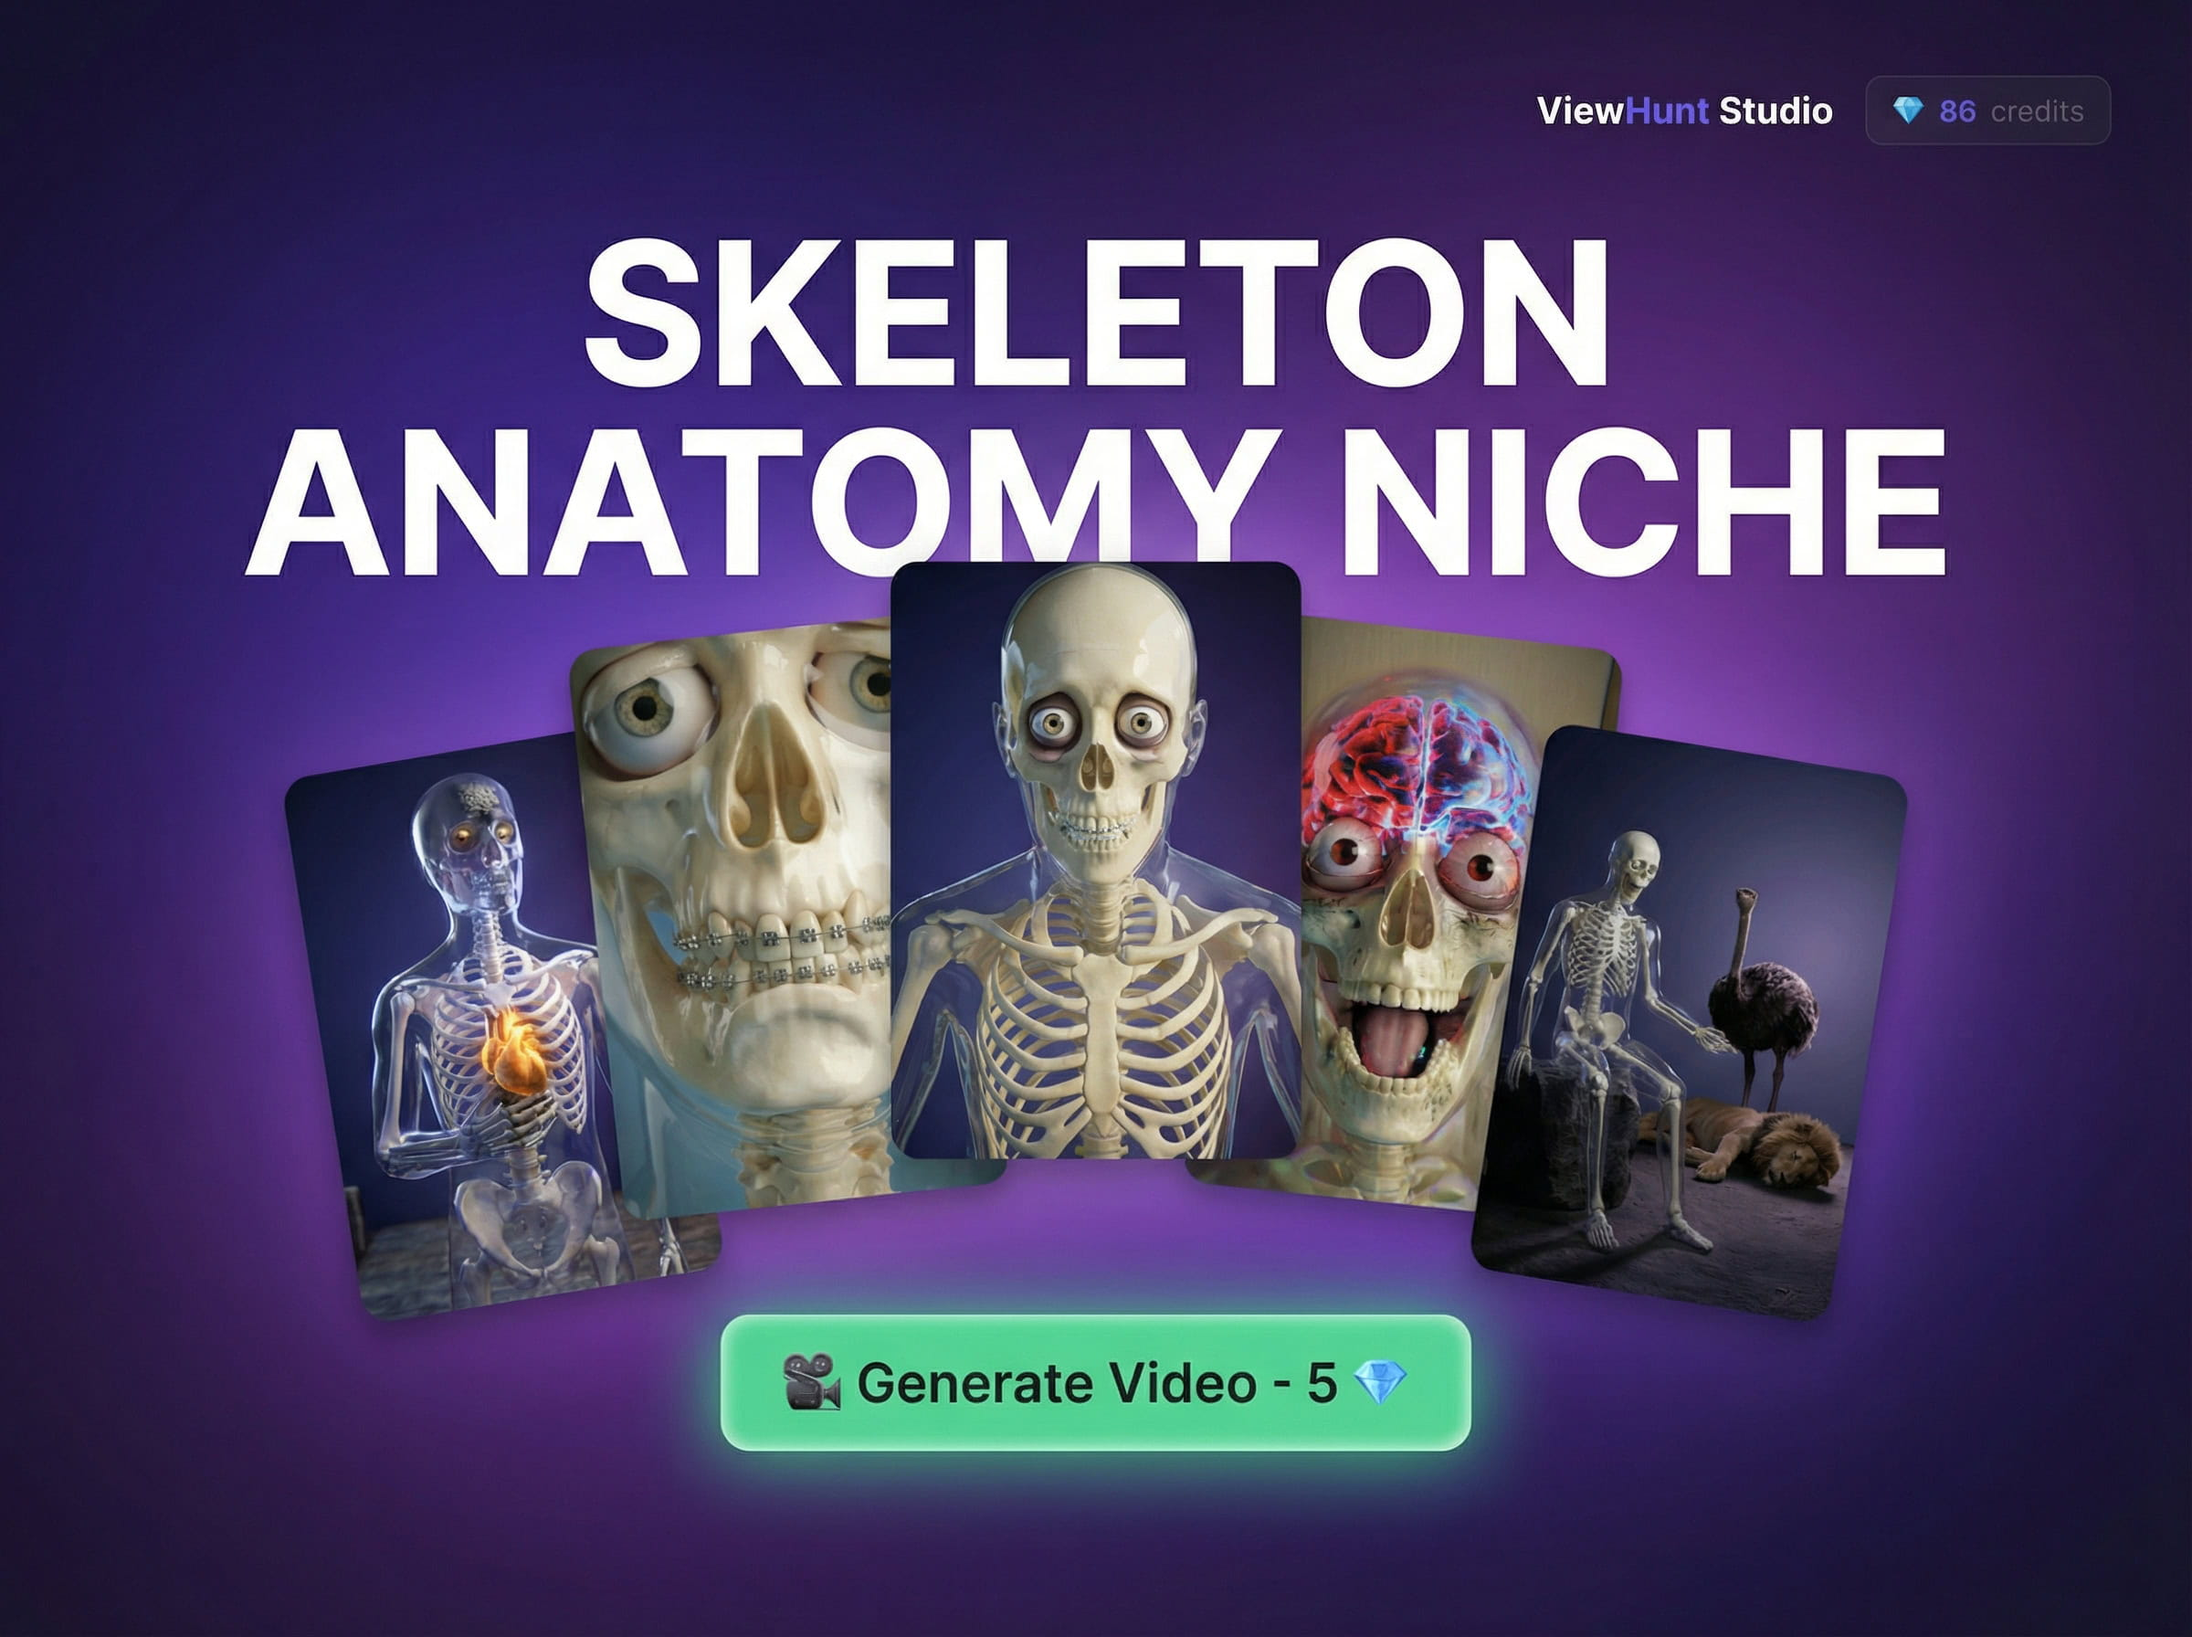
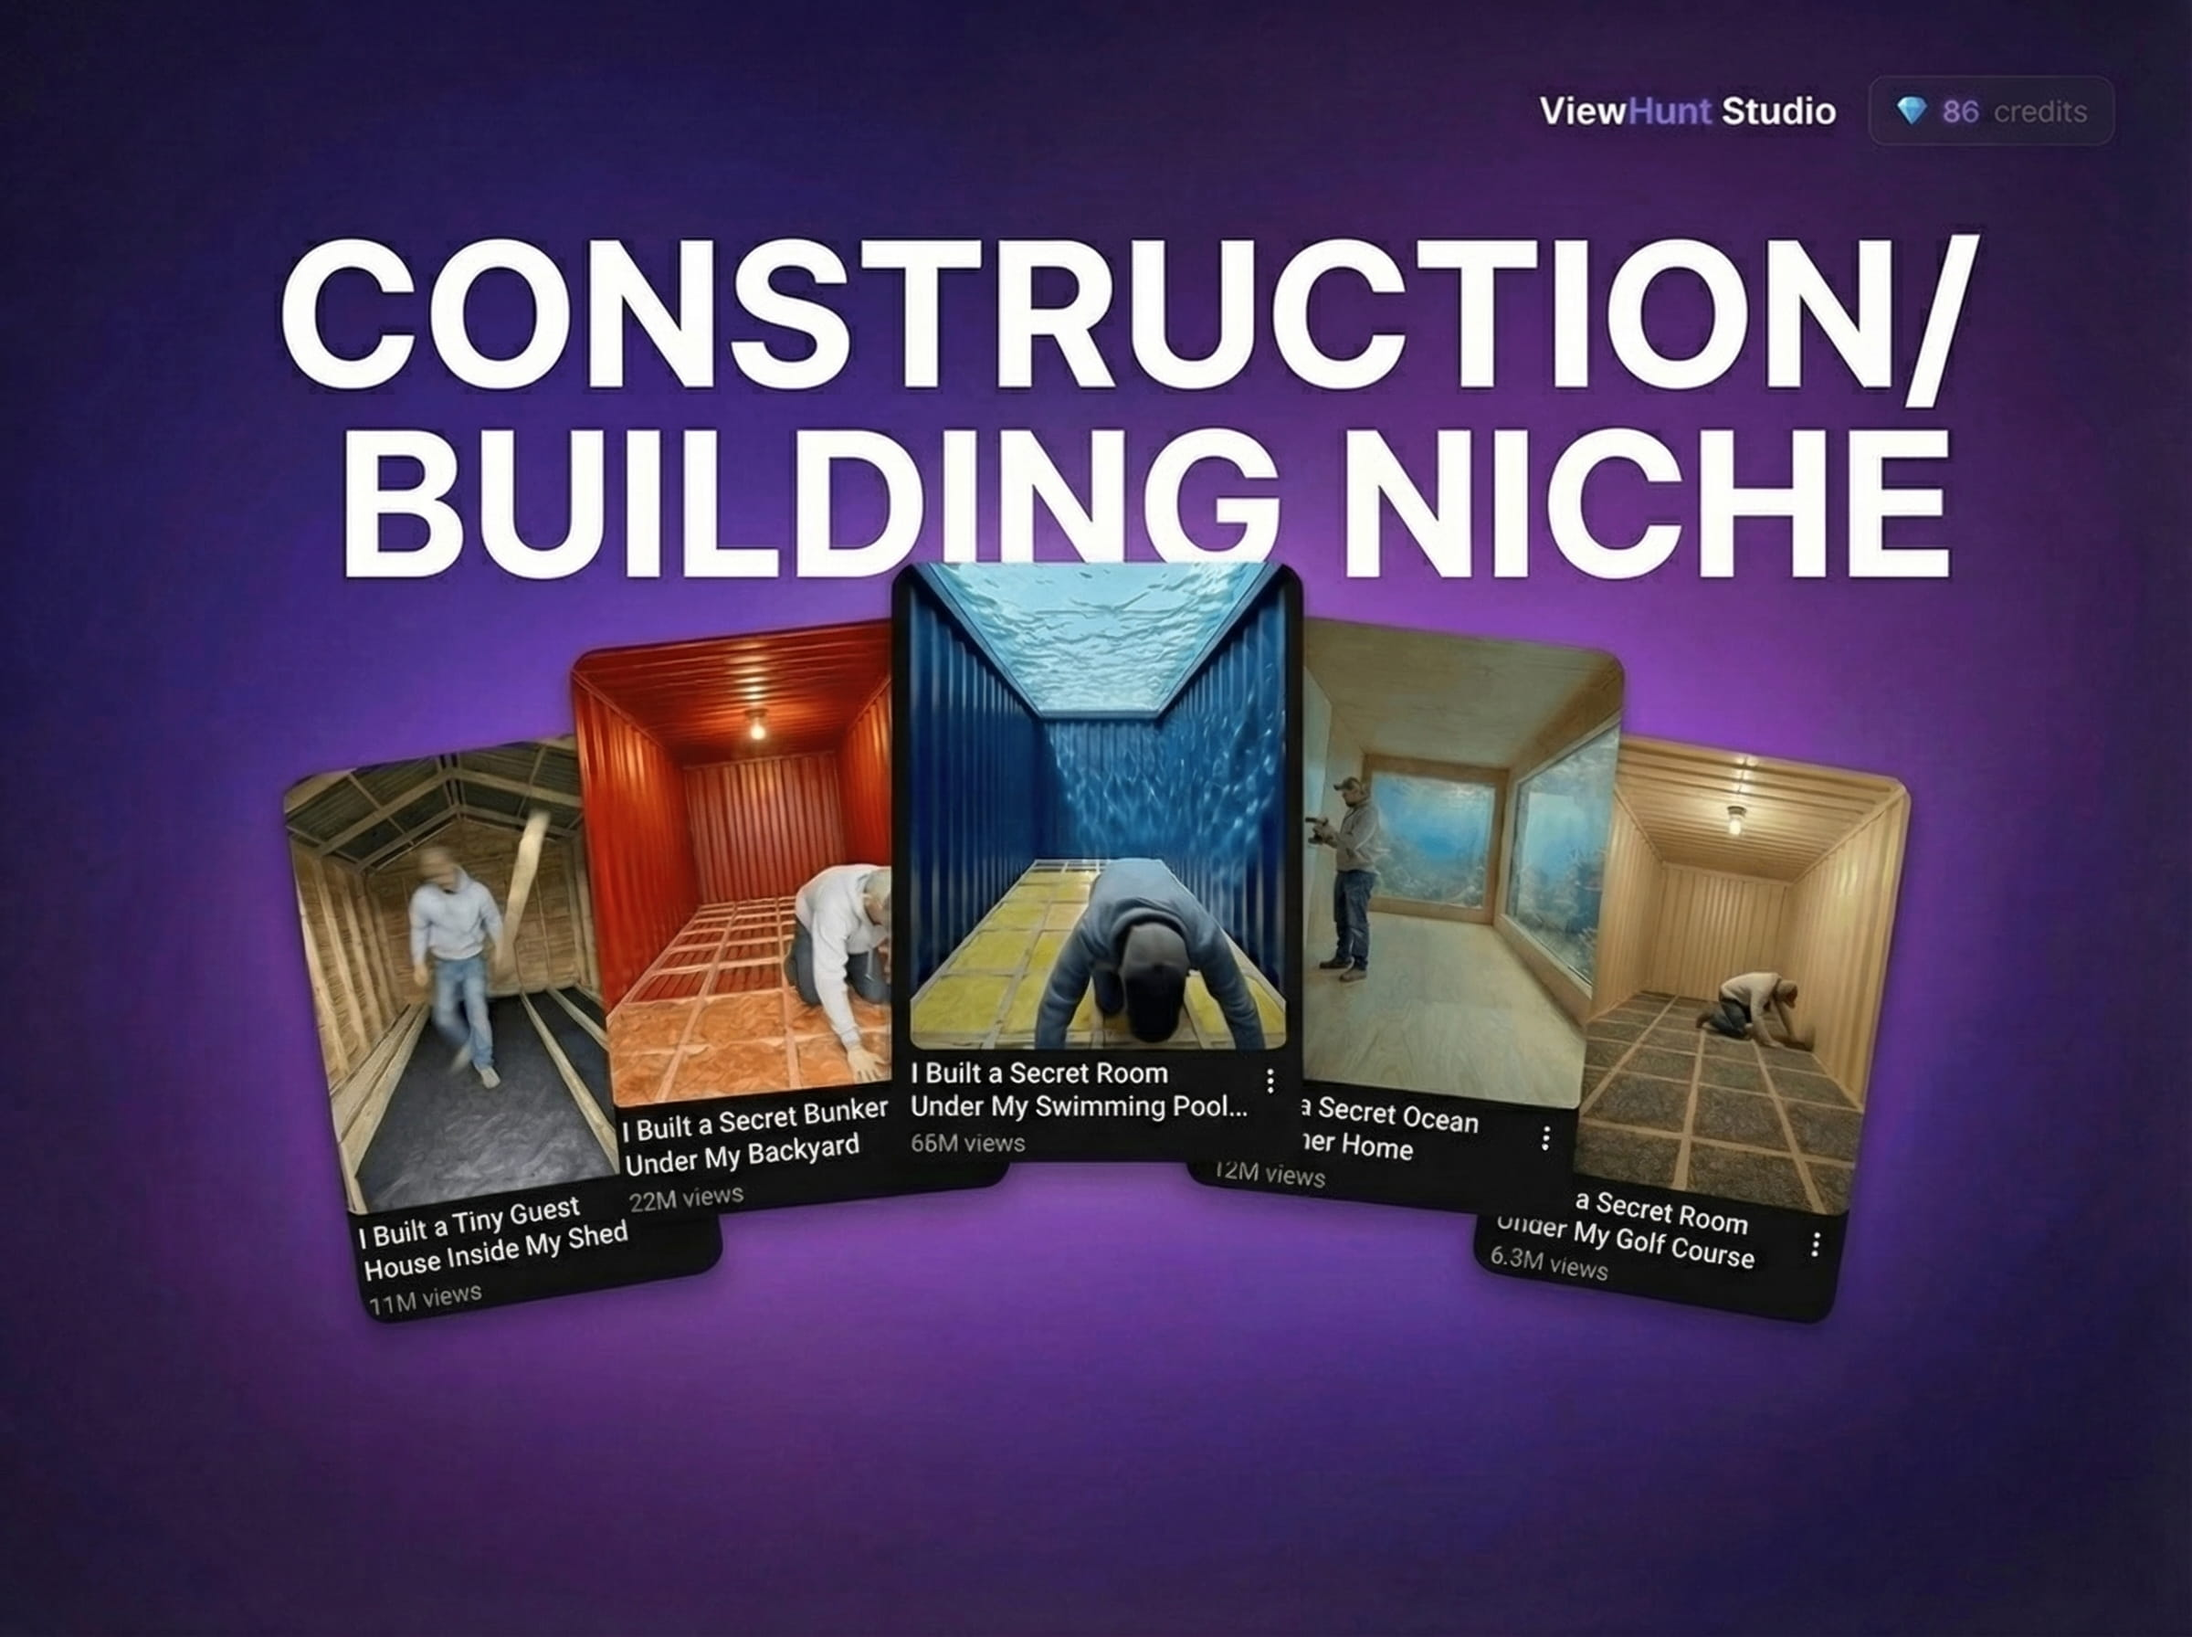
Revert Seedance duration back to 8s, update construction thumbnail

diff --git a/server/studio/formats/timelapse/generator.js b/server/studio/formats/timelapse/generator.js
@@ -308,7 +308,7 @@ Remember:
                             input_urls: [startImageUrl, endImageUrl],
                             aspect_ratio: '9:16',
                             resolution: '720p',
-                            duration: '5',
+                            duration: '8',
                             fixed_lens: true,
                             generate_audio: true
                         }
